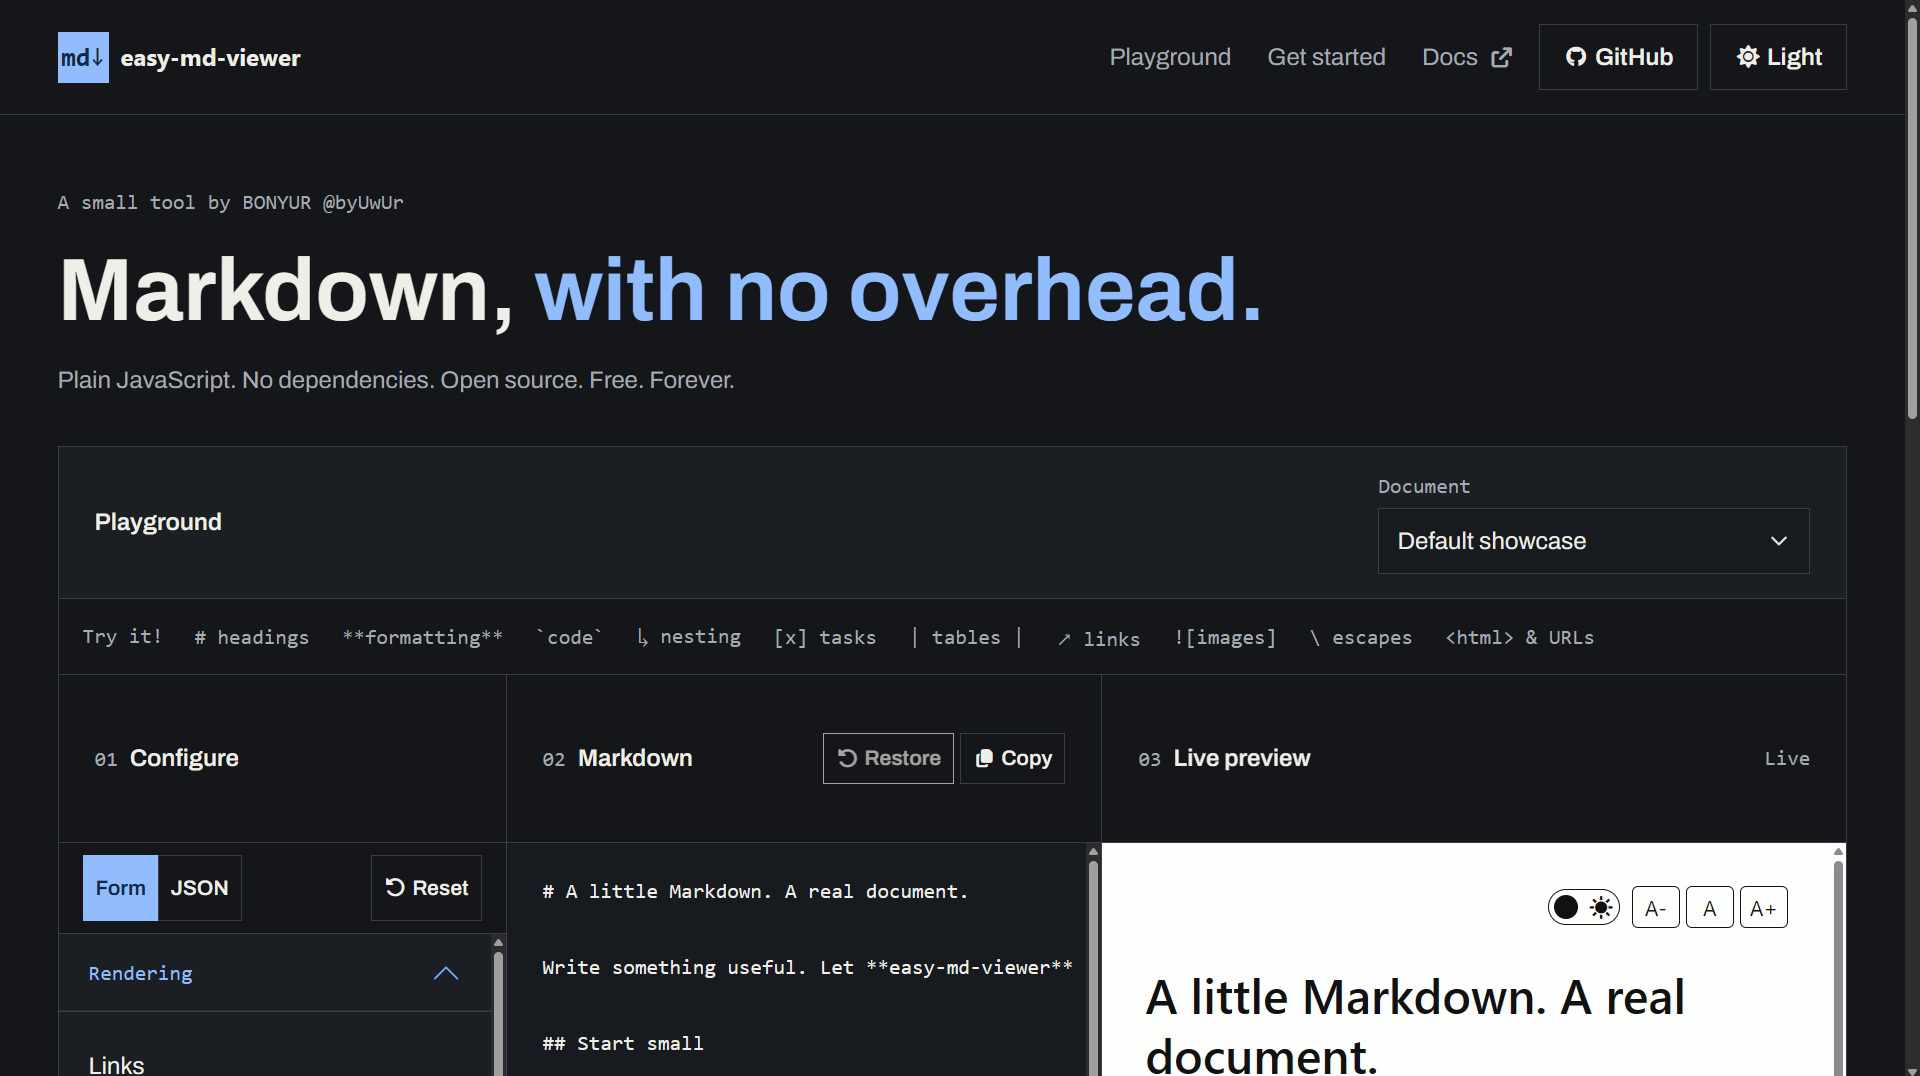
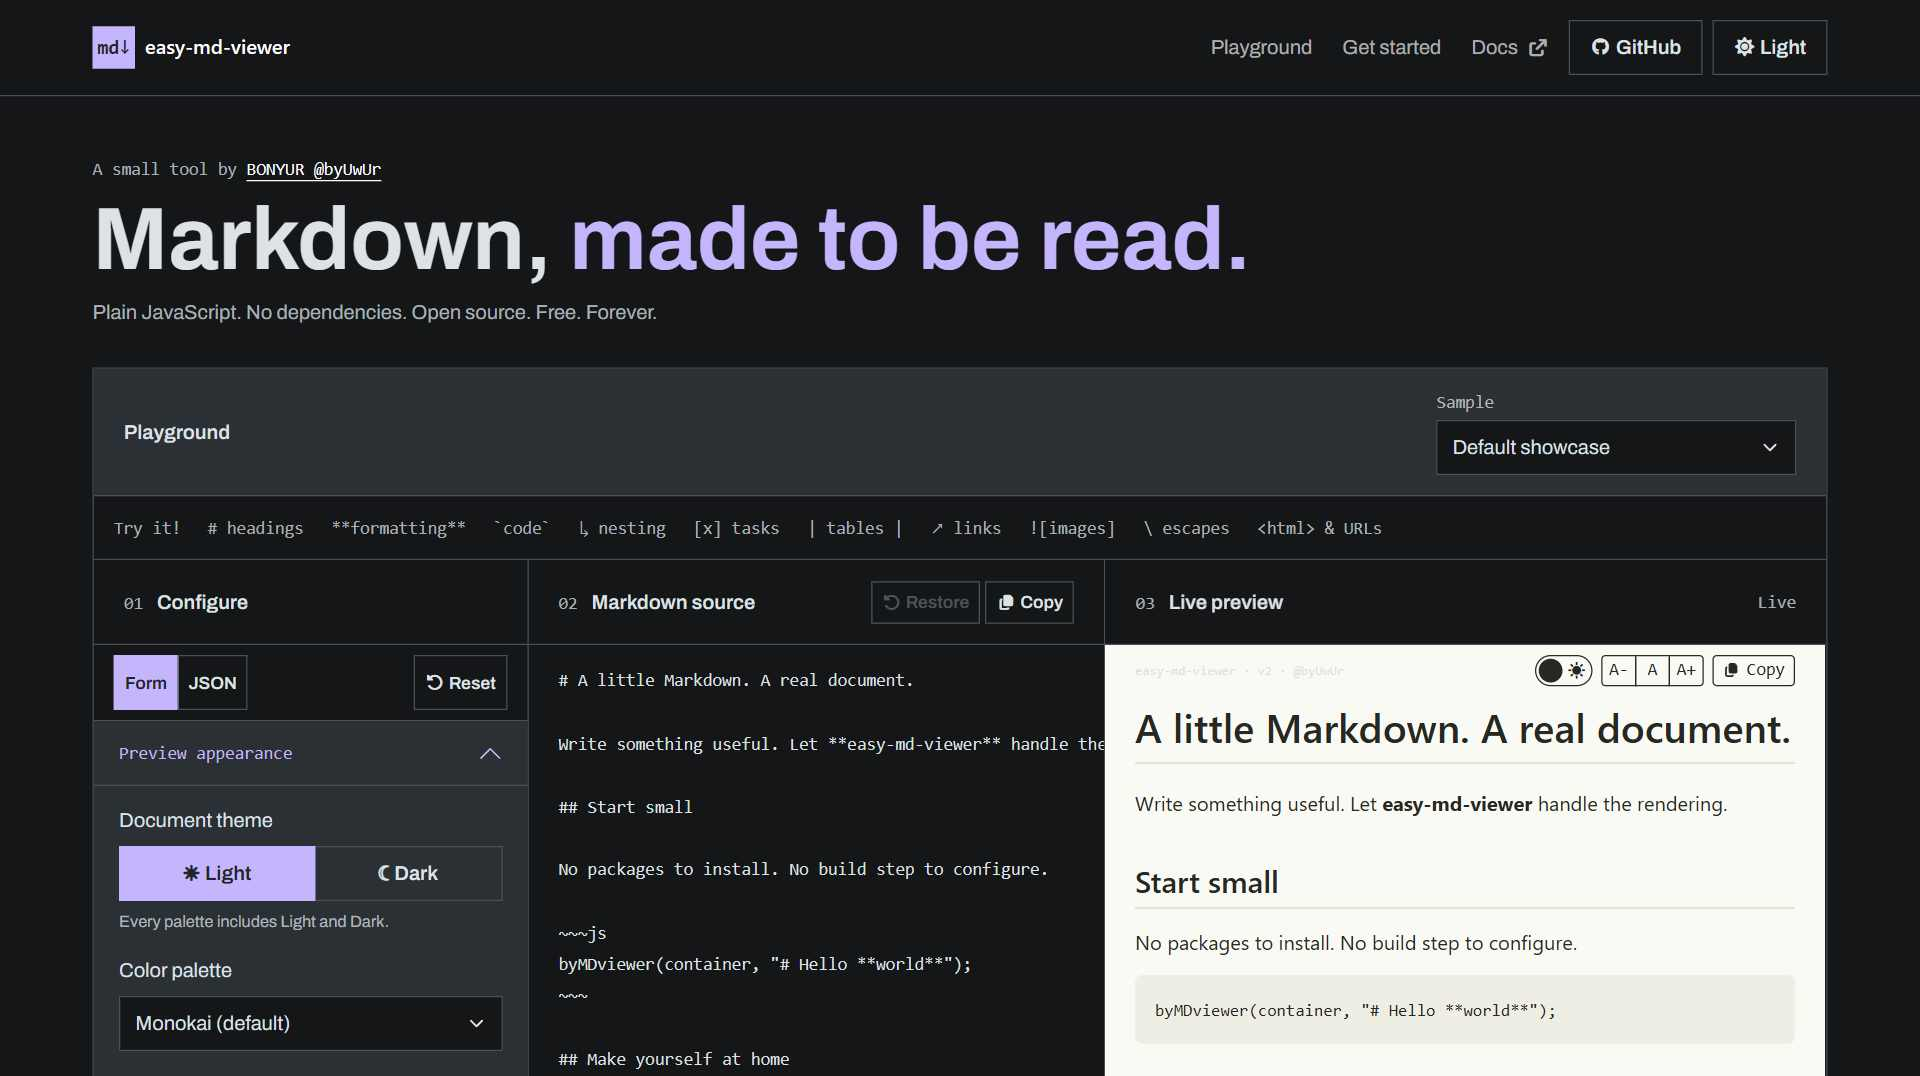
[Update] Release: label v2 and refresh the preview
Align native attribution with the current major version. Refresh the landing preview at 125% scale and keep its JPEG below 100KB.

Validation: node --test tests/rendering.cjs (42 passing at this snapshot).

diff --git a/md.js b/md.js
@@ -1416,6 +1416,6 @@
     renderBlocks(content, normalized.split("\n"), options);
     appendViewerControls(element, options, "md", source);
   };
-  global.byMDviewer.VERSION = "1.8"; // 2026-10-23
+  global.byMDviewer.VERSION = "2"; // 2026-11-01
   global.byMDviewer.initialized = true;
 })(typeof window !== "undefined" ? window : this);
